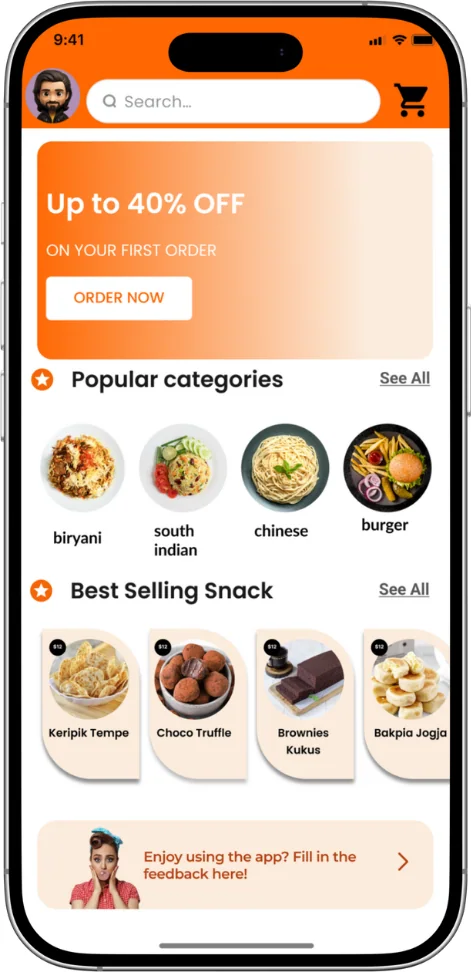
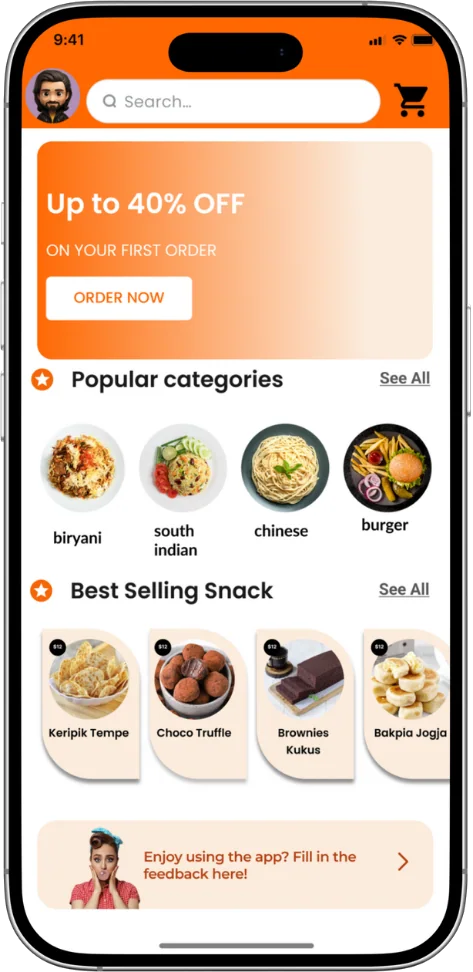
Fix the piled phones, cut out Kedai Nyam's white plate, link the Ampoen article
Three reports, three separate causes, each measured before the fix.

1. "TUMPUK TUMPUKKAN" — the phones were piled on top of each other.

`Collage.astro` gave the device box `height: auto` and `aspect-ratio: 0.488` but
NO width, so as a block element it took the cell's full 438px and derived 897px of
height from the ratio. The cell is 438x301, and `overflow: visible` let the excess
paint over the cell below. Measured: two devices at 438x899 inside 301px cells.

The cell is now a flex column: the caption takes its natural height and the device
gets the remainder, deriving its WIDTH from the ratio. Every device fits at any
cell size, and the stylesheet no longer needs to know the ratio up front. Measured
after: 134x275 with -26px of clearance.

2. "HAPUS BACKGROUND PUTIH DI GAMBAR PROJECT KEDAI NYAM" — and it was a file
   problem, not a CSS one.

The two mobile captures are fully OPAQUE (alpha 255 everywhere) with pure-white
corner pixels: device renders flattened onto a white plate, unlike the Guzelev and
WellMind sets which ship as cut-outs. On the dark theme those corners drew a
rectangle around a phone.

`knockOutWhite` is the correct step and NOT `trimWhiteMargin`: it flood-fills from
the BORDER, removing only white CONNECTED to the edge (2.4% — four corners and a
sliver beside the bezel) while leaving the 33.5% of white INSIDE the screen
untouched. A colour threshold across the image would have punched holes through
[…]

diff --git a/src/data/projects.ts b/src/data/projects.ts
@@ -224,7 +224,17 @@ const raw: ProjectEntry[] = [
         caption: 'Field programme',
       },
     ],
-    linkPending: 'Open the SIMPELDES village system',
+    link: {
+      /*
+        The ARTICLE page of the Ampoen paper, not the journal root — the same
+        verified URL the Publications record uses. Its Highwire meta tags carry
+        this paper's exact title, volume 2, issue 2, pages 980–993, and
+        'Hamzah Naufal Zuhdi' as the fifth of fifteen authors.
+      */
+      label: 'View article',
+      href: 'https://jurnal.serambimekkah.ac.id/index.php/ampoen/article/view/2365',
+      external: true,
+    },
     featured: true,
     source: 'both',
     todo:
@@ -437,13 +447,29 @@ const raw: ProjectEntry[] = [
       alt: 'Kedai Nyam desktop dashboard with sales summary and transaction figures',
       width: 689,
       height: 491,
+      fit: 'contain',
     },
+    /*
+      THE DESKTOP SCREENS ARE DOCUMENTS — letterboxed, not cropped.
+
+      Measured in the `trio` composition: the lead cell is 700x616 (ratio 1.136)
+      while the desktop capture is 1.538, so `cover` removed **13.1% of the width
+      from each side** — enough to cut the dashboard's own sidebar down to "al
+      Zuhdi" and to hide a table column. That is the same failure this site already
+      fixed for journal pages and certificates: a screenshot whose meaning lives at
+      its edges must show whole, and the matte is what makes the letterbox read as
+      a plate rather than as a mis-sized image.
+
+      The two MOBILE captures keep `cover`: they carry their own device bezel, so
+      there is nothing at their edges but the frame.
+    */
     gallery: [
       {
         src: '/images/projects/kedai-nyam-1.webp',
         alt: 'Kedai Nyam desktop sales summary dashboard',
         width: 689,
         height: 491,
+        fit: 'contain',
         caption: 'Desktop — sales summary',
       },
       {
@@ -451,6 +477,7 @@ const raw: ProjectEntry[] = [
         alt: 'Kedai Nyam desktop transaction and report table',
         width: 689,
         height: 448,
+        fit: 'contain',
         caption: 'Desktop — transaction report',
       },
       {

diff --git a/src/data/asset-dims.generated.ts b/src/data/asset-dims.generated.ts
@@ -34,8 +34,8 @@ export const imageDims: Record<string, [number, number]> = {
   '/images/projects/wellmind-profil.webp': [1000, 2049],
   '/images/projects/wellmind-peta.webp': [1000, 2049],
   '/images/projects/kedai-nyam-1.webp': [689, 489],
-  '/images/projects/kedai-nyam-2.webp': [471, 972],
-  '/images/projects/kedai-nyam-3.webp': [471, 972],
+  '/images/projects/kedai-nyam-2.webp': [473, 972],
+  '/images/projects/kedai-nyam-3.webp': [473, 972],
   '/images/projects/kedai-nyam-4.webp': [689, 448],
   '/images/publications/ijirse-cover.webp': [712, 1006],
   '/images/publications/ijirse-article-knn.webp': [1194, 1686],
